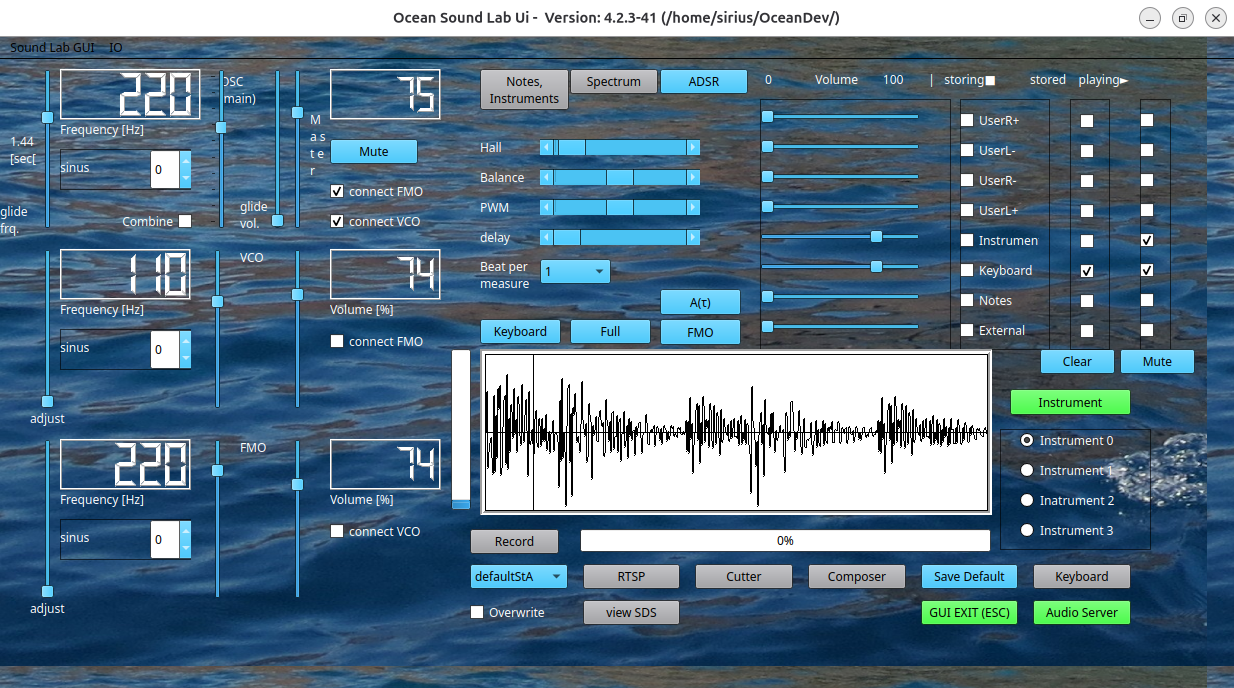
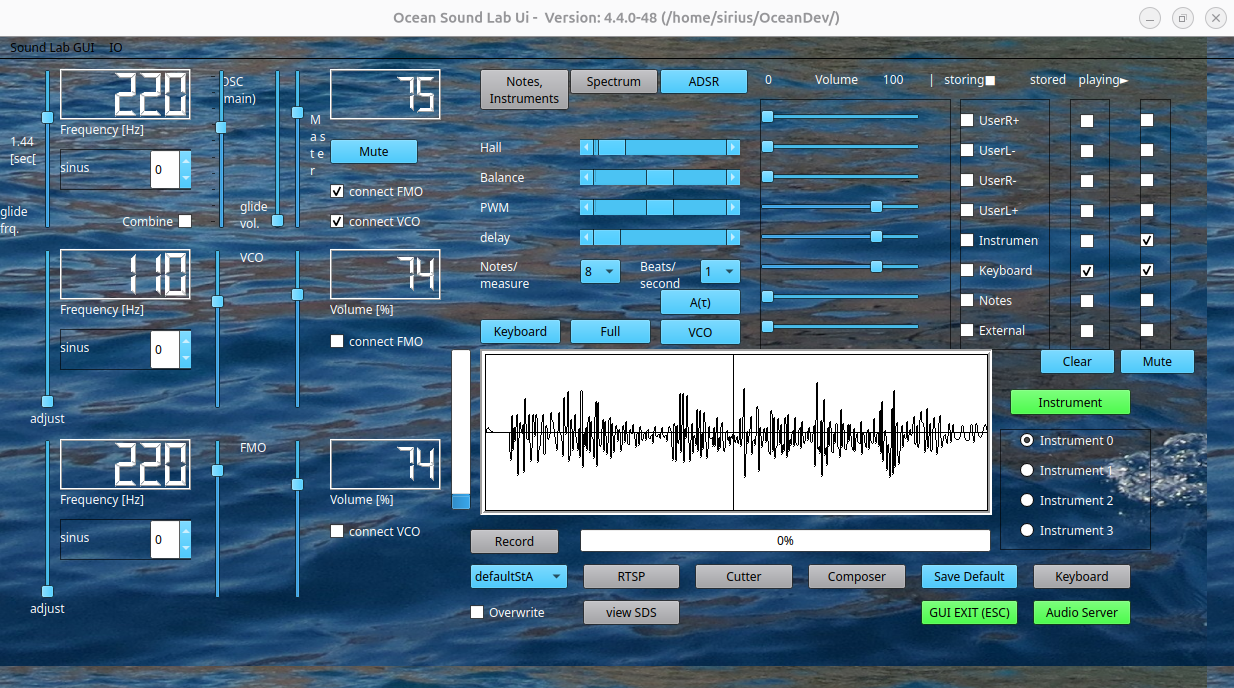
v4.4.0-48 Release Notes

diff --git a/RELEASE_NOTES.md b/RELEASE_NOTES.md
@@ -1,12 +1,12 @@
-# ocean_sound_lab v4.2.3-41
+# ocean_sound_lab v4.4.0-48
 
 Summary
-- Prebuilt binary and runtime distribution for release 4.2.3-41 (tarball).
+- Prebuilt binary and runtime distribution for release 4.4.0-48 (tarball).
 
 ![Ocean-SL screenshot](Resource/Ocean-SL.png)
 
 what's included
-- ocean_sound_lab_4.2.3-41.tar.gz - prebuilt binaries for linux x86_64, aarch64, Ubuntu libc.so.6
+- ocean_sound_lab_4.4.0-48.tar.gz - prebuilt binaries for linux x86_64, aarch64, Ubuntu libc.so.6
 and supporting files.
 
 - Ocean Sound Lab provides a programmable set of Sound Managing Applications, such as Synthesizer, 
@@ -22,20 +22,20 @@ and is tested and compiled on ubuntu 2025-10 for x86_64 and aarch64 on rasperry 
 Installation
 1. Download the tarball from the Release assets.
 2. Extract:
-   tar -xzf ocean_sound_lab_4.2.3-41.tar.gz
+   tar -xzf ocean_sound_lab_4.4.0-48.tar.gz
 3. Follow the install.txt inside the extracted folder for runtime/setup instructions.
 
 Verification
 		- verify cksum (as provided by packager):
-		2373599727 128189886 ocean_sound_lab_4.2.3-41.tar.gz
+		1867197490 161526805 ocean_sound_lab_4.4.0-48.tar.gz
 - verify SHA-256 locally: 
-162759707a318b9a4015e7f4eee94a1c084fd3576865ae081e210bca3d7ea7df  ocean_sound_lab_4.2.3-41.tar.gz
-- Verify: shasum -a 256 -c ocean_sound_lab_4.2.3-41.tar.gz.sha256
+a61799aeb162a54d551429920f638d423ec93c7d3945f6667fdefcd38c8af8dc  ocean_sound_lab_4.4.0-48.tar.gz
+- Verify: shasum -a 256 -c ocean_sound_lab_4.4.0-48.tar.gz.sha256
 
 License & source
 - This binary distribution is provided under the terms in the repository LICENSE file.
 - Full source corresponding to this build is available at:  
-https://github.com/uglasmeyer/ocean/releases/tag/v4.2.3-41
+https://github.com/uglasmeyer/ocean/releases/tag/v4.4.0-48
 
 Notes
 - N/A. If this release contains breaking changes, document migration steps here.
@@ -51,5 +51,6 @@ Changelog
 - combined distribution of x86 and arch binaries
 - GUI Cut desk, allowing to cut recorded wav files
 - updated installation instructions
+- Usability features
 
 
